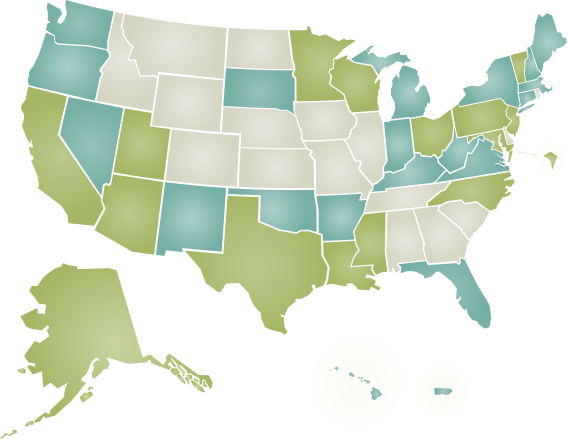
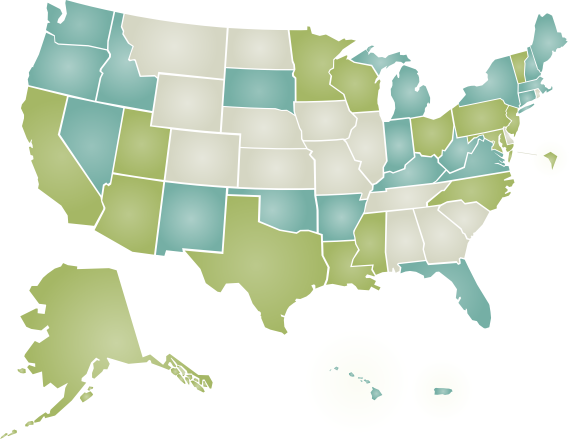
and then there was ID

Changed region(s): [[0.1491, 0.0296, 0.2982, 0.2665]]

diff --git a/templates/status.html b/templates/status.html
@@ -5,7 +5,7 @@
 {% block content %}
 <h2>Project Status</h2>
 
-<p> As of August 8th, 2011 we have data for 34 states, the District of Columbia, and Puerto Rico.  </p> 
+<p> As of August 16th, 2011 we have data for 35 states, the District of Columbia, and Puerto Rico.  </p> 
 
 <p> States are denoted as either "ready" or "experimental" depending on how
 reliable the source data is and how thoroughly we've vetted and cleaned up the
@@ -37,7 +37,7 @@ New Jersey, North Carolina, Ohio, Pennsylvania, Texas, Utah, Vermont, Washington
 
 <h4> Experimental States </h4>
 <p> Experimental states (in blue) are those that we support but have not yet promoted to ready
-status.  Arkansas, Connecticut, Florida, Hawaii, Indiana, Kentucky, Maine, Massachusetts, Michigan,
+status.  Arkansas, Connecticut, Florida, Hawaii, Idaho, Indiana, Kentucky, Maine, Massachusetts, Michigan,
 Nevada, New Hampshire, New Mexico, New York, Oklahoma, Oregon, Puerto Rico, South Dakota, Virginia,
 Washington, and West Virginia fall in this category.
 </p>

diff --git a/templates/index.html b/templates/index.html
@@ -37,7 +37,7 @@
                         Open States Project Status
                     </h3>
                     <p>
-                        We currently have data available for 34 states, Washington DC, and Puerto Rico.  If your state isn't available yet learn how to <a href="/contributing/">contribute.</a>
+                        We currently have data available for 35 states, Washington DC, and Puerto Rico.  If your state isn't available yet learn how to <a href="/contributing/">contribute.</a>
                     </p>
                 </div>
                 <div class="map-key">
